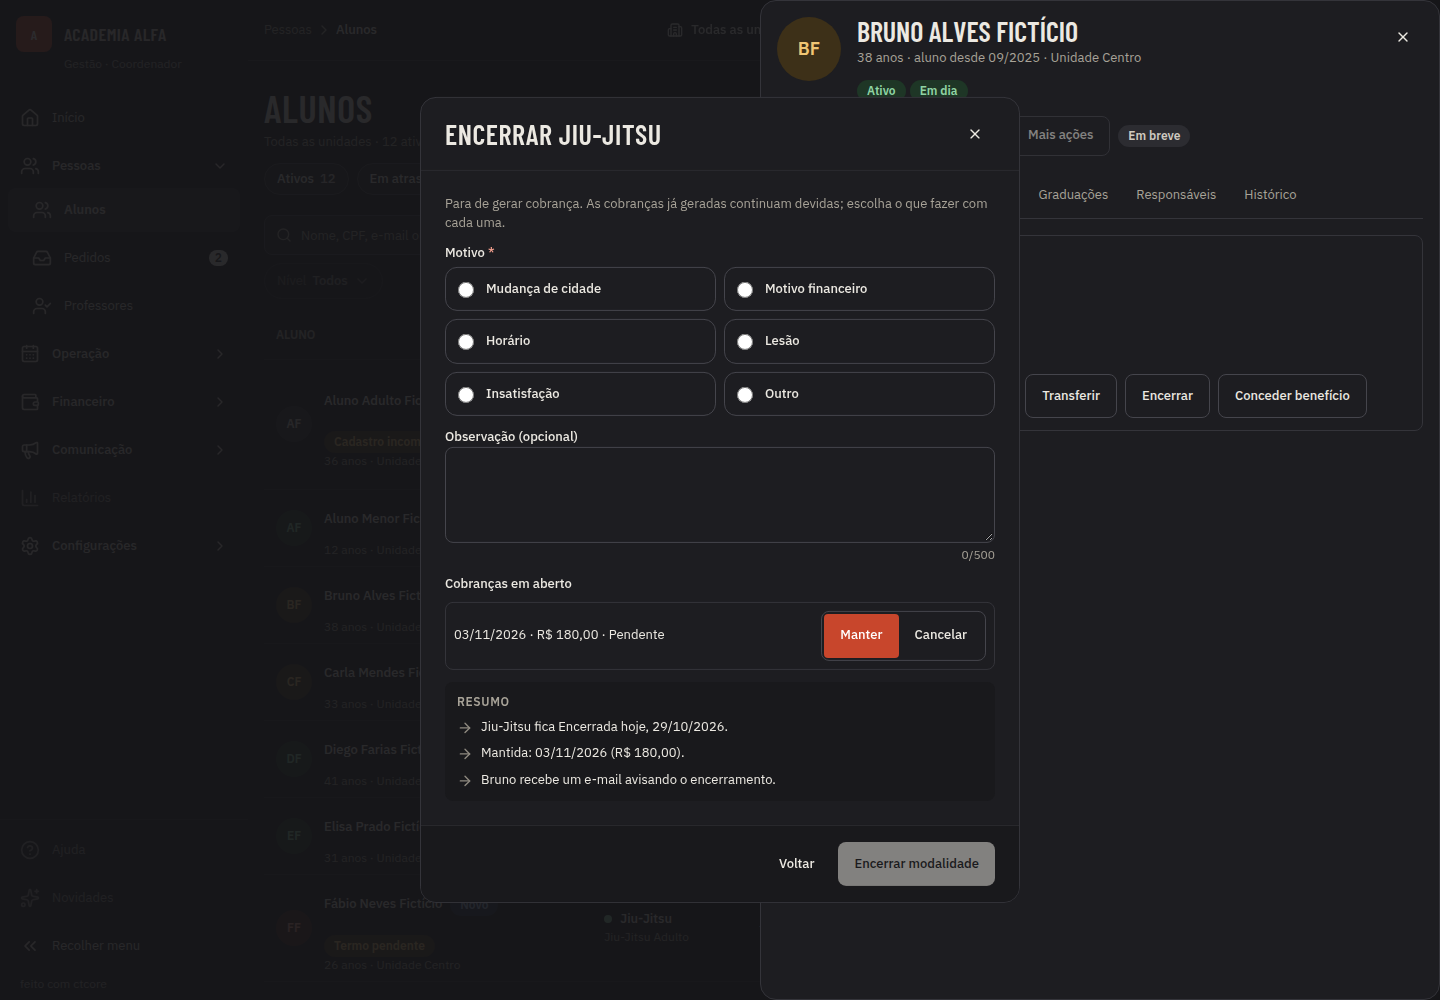
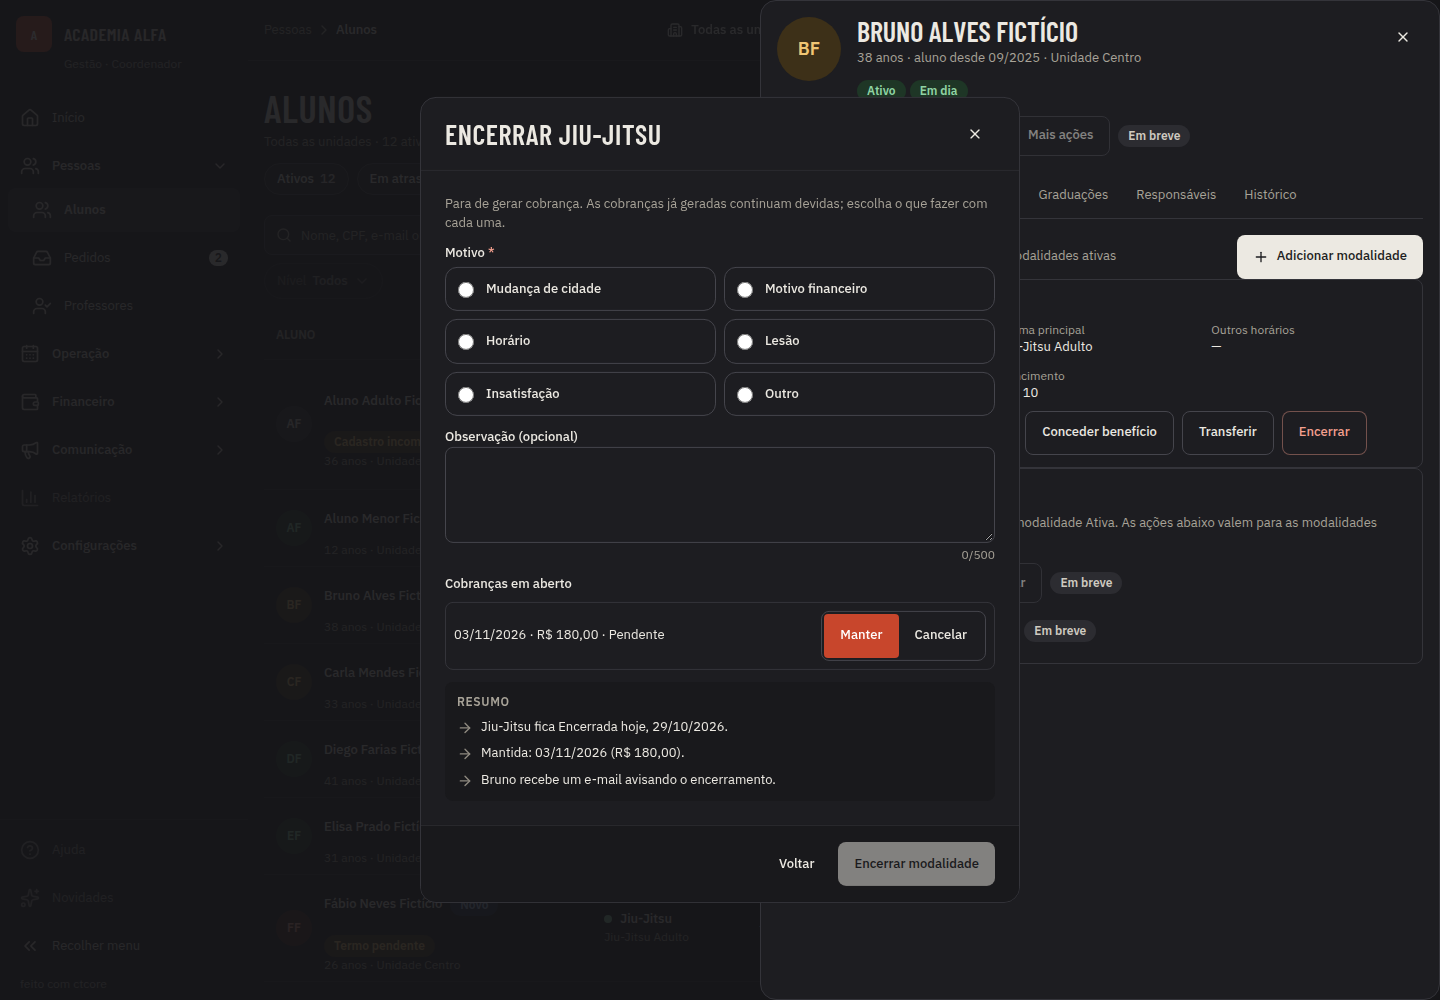
#467: Ficha do aluno: abas Matrícula, Financeiro, Graduações, Responsáveis e Histórico no visual do canvas

diff --git a/frontend/src/features/students/RecordGraduations.tsx b/frontend/src/features/students/RecordGraduations.tsx
@@ -1,7 +1,7 @@
 import { useTranslation } from "react-i18next";
 import { ComingSoon } from "@/components/ui/coming-soon";
 
-// D4 (#467): graduações do aluno ainda não estão no contrato; a aba mostra o texto do canvas e o registro em "Em breve".
+// D4 (item 467): graduações do aluno ainda não estão no contrato; a aba mostra o texto do canvas e o registro em "Em breve".
 export function RecordGraduations() {
   const { t } = useTranslation();
   return (

diff --git a/specs/itens/467-ficha-aluno-abas-canvas.md b/specs/itens/467-ficha-aluno-abas-canvas.md
@@ -164,3 +164,44 @@ Instáveis: nenhum.
 - Limitação aberta: os `limiteCanvas` das cinco abas (0,5) citam "item de contrato sugerido na #467", sem número de issue. Nenhuma issue aberta cobre esse contrato hoje; ao criá-la, citar o número nos `limiteCanvas` e acrescentar a remoção ao "Pronto quando" dela (AGENTS.md, Autonomia 4).
 - Sugestões da verificação não corrigidas (não bloqueiam): `rowKey` do Histórico pode repetir; botão "Adicionar modalidade" é preto cheio, no canvas é de contorno; indentação do JSX dos botões do cartão em `RecordEnrollment.tsx`; `limiteCanvas` em 0,5 sem medida real.
 - Instáveis: nenhum.
+
+### Correção da entrega
+- CI do PR #550 vermelho (`frontend` e `visual`): (1) `telasCanvas421.test.ts` reprovava `RecordGraduations.tsx` porque o comentário "#467" casava com o regex de cor fixa — arquivos: `frontend/src/features/students/RecordGraduations.tsx` (comentário agora "item 467") — prova: `npx vitest run src/features/telasCanvas421` → 38 passaram; (2) a referência `aluno-encerrar-modalidade-1440-{claro,escuro}` mudou com a nova aba Matrícula e não foi regerada — arquivos: `frontend/visual/referencias/aluno-encerrar-modalidade-1440-claro.png` e `-escuro.png` — prova: `npm run test:visual:docker -- --update-snapshots -g "aluno-encerrar-modalidade"` → 4 passaram; `npm run visual:canvas -- --exige` → 110 comparadas, 0 reprovadas
+Referências visuais: `frontend/visual/referencias/aluno-encerrar-modalidade-1440-{claro,escuro}.png`
+Sugestões opcionais da verificação não feitas.
+
+### Rodada 2 — OK — 2026-11-10, estado ec20c4e543639638ce92b9102502773276164111 + correção da entrega (comentário em `RecordGraduations.tsx` e 2 referências `aluno-encerrar-modalidade-1440-{claro,escuro}`)
+
+| Critério | Status | Evidência |
+|---|---|---|
+| CA1 a CA16 | PASSOU | mantido da rodada 1; a mudança de código é só um comentário; testes das áreas reexecutados |
+| CA17 | PASSOU | mantido da rodada 1; as referências regeradas só mudam o cartão da aba Matrícula (nova), coerente com o item; `test:visual:docker` e `visual:canvas` não reexecutados aqui (Autonomia 3; o CI do PR cobre) |
+
+Correção da entrega: (1) comentário "#467" trocado por "item 467" em `RecordGraduations.tsx`; `telasCanvas421` passou dentro da execução abaixo. (2) referências do `aluno-encerrar-modalidade` regeradas, só nesses 2 arquivos, da tela tocada pelo item.
+
+Comandos:
+- `npx vitest run src/features/telasCanvas421 src/features/students src/test/a11y.test.tsx visual/casos.test.ts` → 20 arquivos, 355 testes passaram
+- `npm run lint` e `npm run typecheck` → limpos
+- `verify`, `test:cov`, `e2e`, `test:visual:docker` não reexecutados (CI do PR, Autonomia 2)
+
+Achados:
+- sugestão, código — mantidas as 4 sugestões da rodada 1 (não bloqueiam).
+
+Instáveis: nenhum.
+
+### Rodada 3 — OK — 2026-11-10, estado 5b4be183c1fa6bcbf53b56bcb6bda2090d65e3e7
+
+| Critério | Status | Evidência |
+|---|---|---|
+| CA1 a CA16 | PASSOU | mantido da rodada 2; reexecutados `src/features/students`, `telasCanvas421`, `a11y` |
+| CA17 | PASSOU | mantido da rodada 2; diff desde a rodada 1 é só o comentário de `RecordGraduations.tsx` e as 2 referências `aluno-encerrar-modalidade-1440-{claro,escuro}` (coerentes com a nova aba Matrícula) |
+
+Comandos:
+- `npx vitest run src/features/telasCanvas421 src/features/students src/test/a11y.test.tsx visual/casos.test.ts` → 20 arquivos, 355 testes passaram (inclui a regra de cor fixa que reprovava no CI)
+- `npm run lint` e `npm run typecheck` → limpos
+- `verify`, `test:cov`, `e2e`, `test:visual:docker`, `visual:canvas` não reexecutados (CI do PR, Autonomia 2 e 3)
+
+Achados:
+- sugestão, código — mantidas as 4 sugestões da rodada 1 (não bloqueiam).
+
+Instáveis: nenhum.
